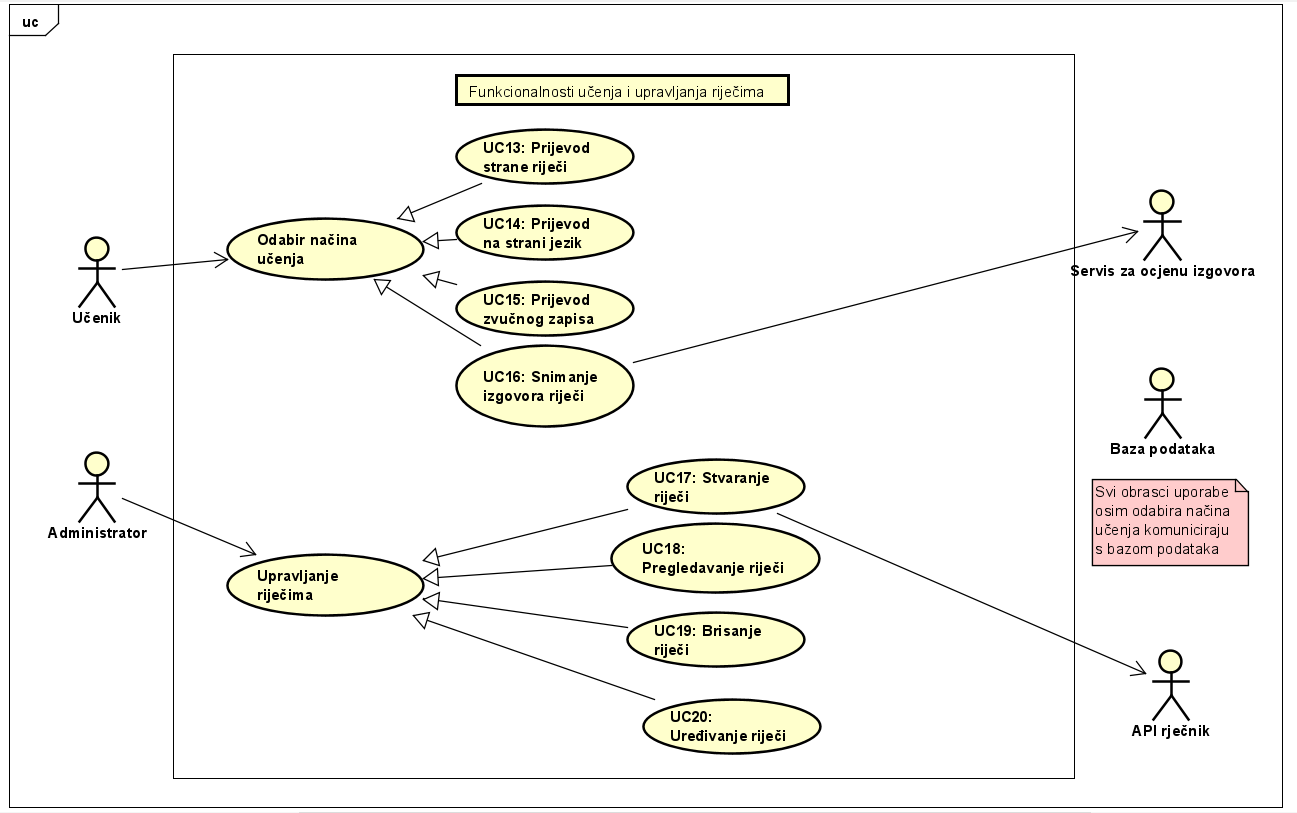
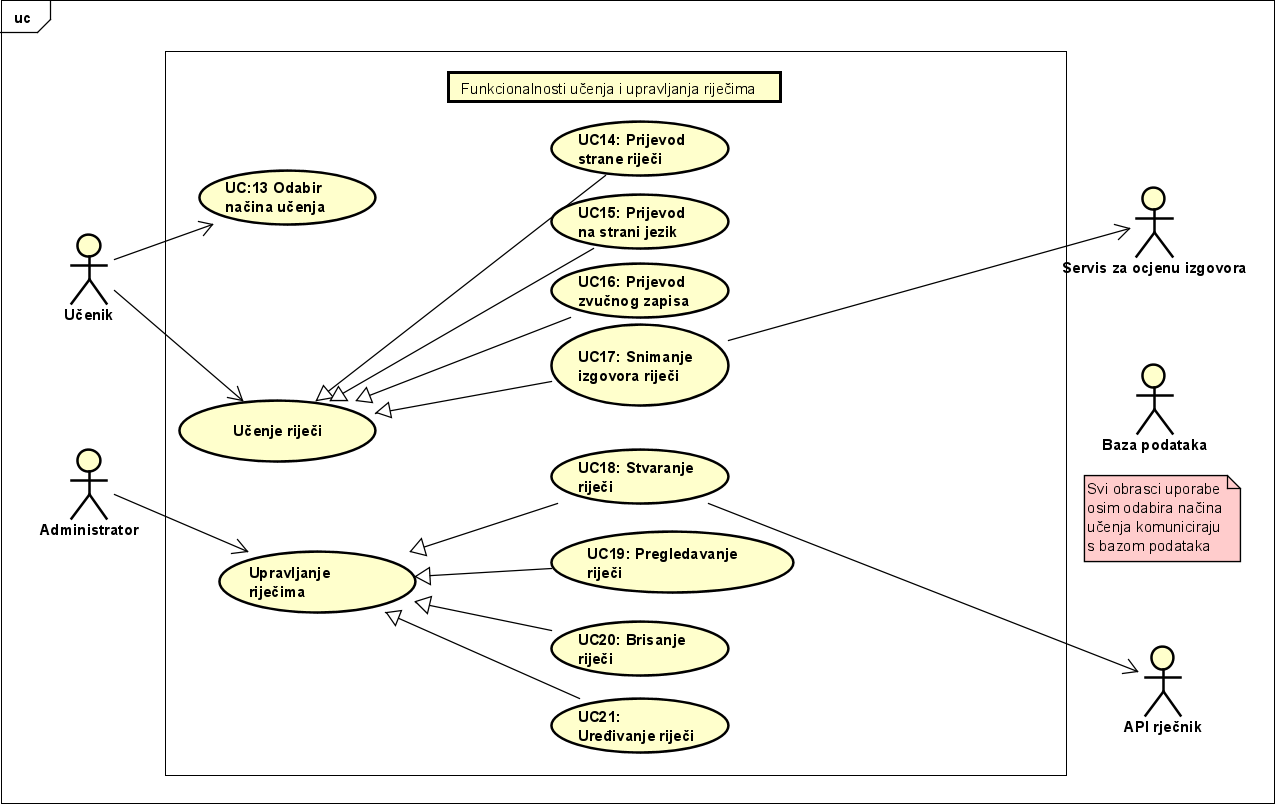
fixing some UC mistakes

diff --git a/dokumentacija/Specifikacija_programske_potpore.tex b/dokumentacija/Specifikacija_programske_potpore.tex
@@ -358,7 +358,7 @@
 		\item Sustav preusmjerava:
 		\item[] \begin{packed_item}
 		
-			\item učenika na zaslon za odabir načina učenja (UC21 Odabir načina učenja)
+			\item učenika na zaslon za odabir načina učenja (UC13 Odabir načina učenja)
 			\item administratora na obrazac za uređivanje rječnika (UC11 Promjena naziva rječnika, UC10 Promjena sadržaja rječnika)
 			
 		\end{packed_item}
@@ -554,16 +554,36 @@
 
 \end{packed_item}
 
+\noindent \underbar{\textbf{UC13 - Odabir načina učenja}}
+\begin{packed_item}
+
+	\item \textbf{Glavni sudionik: } Korisnik
+	\item \textbf{Cilj: } Započeti dnevnu sesiju učenja u odabranom načinu
+	\item \textbf{Sudionici: } -
+	\item \textbf{Preduvjet: } Postojanje korisničkog računa, prijava u sustav s korisničkim računom, odabir jezika i riječnika (UC8 pregledavanje i odabir rječnika)
+	\item  \textbf{Opis osnovnog tijeka:}
+	
+	\item[] \begin{packed_enum}
+		
+		\item Korisnik bira jedan od četiri gumba koji predstavljaju načine rada
+		\item Nakon odabira, korisnika se redirektira na stranicu tog specifičnog
+		načina rada te se otpočinje s učenjem
+
+	\end{packed_enum}
+
+	
+\end{packed_item}
 
 
 
-\noindent \underbar{\textbf{UC13 - Prijevod strane riječi}}
+
+\noindent \underbar{\textbf{UC14 - Prijevod strane riječi}}
 \begin{packed_item}
 
 	\item \textbf{Glavni sudionik: } Korisnik
 	\item \textbf{Cilj: } Korisnik je naučio prijevod strane riječi ili izraza na hrvatski
 	\item \textbf{Sudionici: } Baza podataka
-	\item \textbf{Preduvjet: } Učenik je prijavljen, učenik je prethodno odabrao koji će jezik učiti, iz kojeg će rječnika učiti te je odabrao način učenja Prijevod strane riječi (UC21 Odabir načina učenja)
+	\item \textbf{Preduvjet: } Učenik je prijavljen, učenik je prethodno odabrao koji će jezik učiti, iz kojeg će rječnika učiti te je odabrao način učenja Prijevod strane riječi (UC13 Odabir načina učenja)
 	\item  \textbf{Opis osnovnog tijeka:}
 	
 	\item[] \begin{packed_enum}
@@ -578,13 +598,13 @@
 \end{packed_item}
 
 
-\noindent \underbar{\textbf{UC14 - Prijevod na strani jezik}}
+\noindent \underbar{\textbf{UC15 - Prijevod na strani jezik}}
 \begin{packed_item}
 
 	\item \textbf{Glavni sudionik: } Korisnik
 	\item \textbf{Cilj: } Korisnik je naučio prijevod strane riječi ili izraza na hrvatski
 	\item \textbf{Sudionici: } Baza podataka
-	\item \textbf{Preduvjet: } Učenik je prijavljen, učenik je prethodno odabrao koji će jezik učiti, iz kojeg će rječnika učiti te je odabrao način učenja Prijevod na strani jezik (UC21 Odabir načina učenja)
+	\item \textbf{Preduvjet: } Učenik je prijavljen, učenik je prethodno odabrao koji će jezik učiti, iz kojeg će rječnika učiti te je odabrao način učenja Prijevod na strani jezik (UC13 Odabir načina učenja)
 	\item  \textbf{Opis osnovnog tijeka:} 
 	
 	\item[] \begin{packed_enum}
@@ -599,13 +619,13 @@
 \end{packed_item}
 
 
-\noindent \underbar{\textbf{UC15 - Prijevod zvučnog zapisa}}
+\noindent \underbar{\textbf{UC16 - Prijevod zvučnog zapisa}}
 \begin{packed_item}
 
 	\item \textbf{Glavni sudionik: } Korisnik
 	\item \textbf{Cilj: } Korisnik slušajući razumije strani jezik
 	\item \textbf{Sudionici: } Baza podataka
-	\item \textbf{Preduvjet: } Učenik je prijavljen, učenik je prethodno odabrao koji će jezik učiti, iz kojeg će rječnika učiti te je odabrao način učenja Prijevod zvučnog zapisa (UC21 Odabir načina učenja)
+	\item \textbf{Preduvjet: } Učenik je prijavljen, učenik je prethodno odabrao koji će jezik učiti, iz kojeg će rječnika učiti te je odabrao način učenja Prijevod zvučnog zapisa (UC13 Odabir načina učenja)
 	\item  \textbf{Opis osnovnog tijeka:} 
 	
 	\item[] \begin{packed_enum}
@@ -620,13 +640,13 @@
 \end{packed_item}
 
 
-\noindent \underbar{\textbf{UC16 - Snimanje izgovora riječi}}
+\noindent \underbar{\textbf{UC17 - Snimanje izgovora riječi}}
 \begin{packed_item}
 
 	\item \textbf{Glavni sudionik: } Korisnik
 	\item \textbf{Cilj: } Korisnik pravilno izgovara riječi na stranom jeziku
 	\item \textbf{Sudionici: } Baza podataka, Servis za ocjenu izgovora
-	\item \textbf{Preduvjet: } Učenik je prijavljen, učenik je prethodno odabrao koji će jezik učiti, iz kojeg će rječnika učiti te je odabrao način učenja Snimanje izgovora (UC21 Odabir načina učenja)
+	\item \textbf{Preduvjet: } Učenik je prijavljen, učenik je prethodno odabrao koji će jezik učiti, iz kojeg će rječnika učiti te je odabrao način učenja Snimanje izgovora (UC13 Odabir načina učenja)
 	\item  \textbf{Opis osnovnog tijeka:} 
 	
 	\item[] \begin{packed_enum}
@@ -646,13 +666,13 @@
 
 
 
-\noindent \underbar{\textbf{UC17 - Stvaranje riječi}}
+\noindent \underbar{\textbf{UC18 - Stvaranje riječi}}
 \begin{packed_item}
 
 	\item \textbf{Glavni sudionik: } Administrator
 	\item \textbf{Cilj: } Mogućnost pregledavanja svih riječi za zadani jezik
 	\item \textbf{Sudionici: } Baza podataka
-	\item \textbf{Preduvjet: } Prijavljivanje u administratorski račun, odabran jezik, admin se nalazi na stranici za pregled riječi (UC17 stvaranje riječi)	
+	\item \textbf{Preduvjet: } Prijavljivanje u administratorski račun, odabran jezik, admin se nalazi na stranici za pregled riječi	
 	\item  \textbf{Opis osnovnog tijeka:}
 	
 	\item[] \begin{packed_enum}
@@ -669,7 +689,7 @@
 	
 \end{packed_item}
 
-\noindent \underbar{\textbf{UC18 - Pregledavanje riječi}}
+\noindent \underbar{\textbf{UC19 - Pregledavanje riječi}}
 \begin{packed_item}
 
 	\item \textbf{Glavni sudionik: } Administrator
@@ -688,7 +708,7 @@
 \end{packed_item}
 
 
-\noindent \underbar{\textbf{UC19 - Brisanje riječi}}
+\noindent \underbar{\textbf{UC20 - Brisanje riječi}}
 \begin{packed_item}
 
 	\item \textbf{Glavni sudionik: } Administrator
@@ -724,7 +744,7 @@
 
 
 
-\noindent \underbar{\textbf{UC20 - Uređivanje riječi}}
+\noindent \underbar{\textbf{UC21 - Uređivanje riječi}}
 \begin{packed_item}
 
 	\item \textbf{Glavni sudionik: } Administrator
@@ -745,27 +765,6 @@
 	\end{packed_enum}
 	
 \end{packed_item}
-
-\noindent \underbar{\textbf{UC21 - Odabir načina učenja}}
-\begin{packed_item}
-
-	\item \textbf{Glavni sudionik: } Korisnik
-	\item \textbf{Cilj: } Započeti dnevnu sesiju učenja u odabranom načinu
-	\item \textbf{Sudionici: } -
-	\item \textbf{Preduvjet: } Postojanje korisničkog računa, prijava u sustav s korisničkim računom, odabir jezika i riječnika (UC8 pregledavanje i odabir rječnika)
-	\item  \textbf{Opis osnovnog tijeka:}
-	
-	\item[] \begin{packed_enum}
-		
-		\item Korisnik bira jedan od četiri gumba koji predstavljaju načine rada
-		\item Nakon odabira, korisnika se redirektira na stranicu tog specifičnog
-		načina rada te se otpočinje s učenjem
-
-	\end{packed_enum}
-
-	
-\end{packed_item}
-
 
 \eject
 
